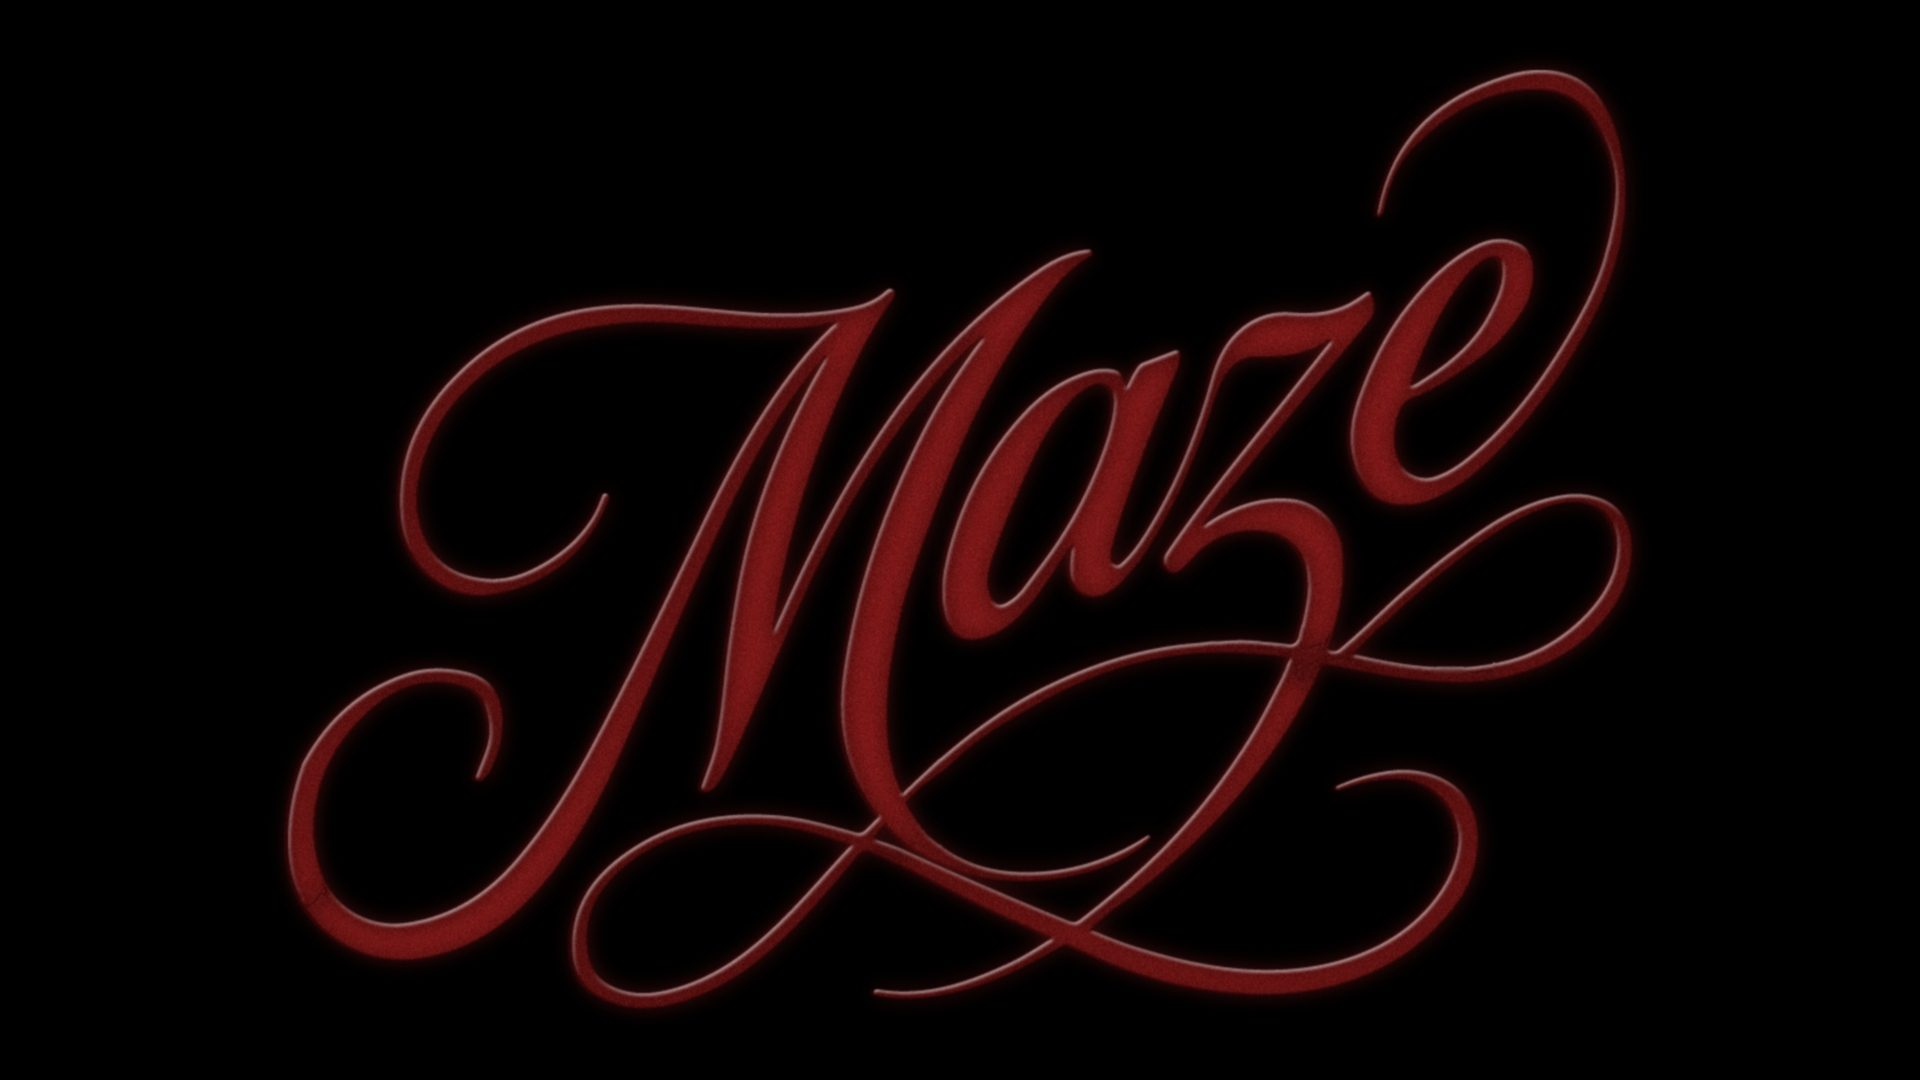
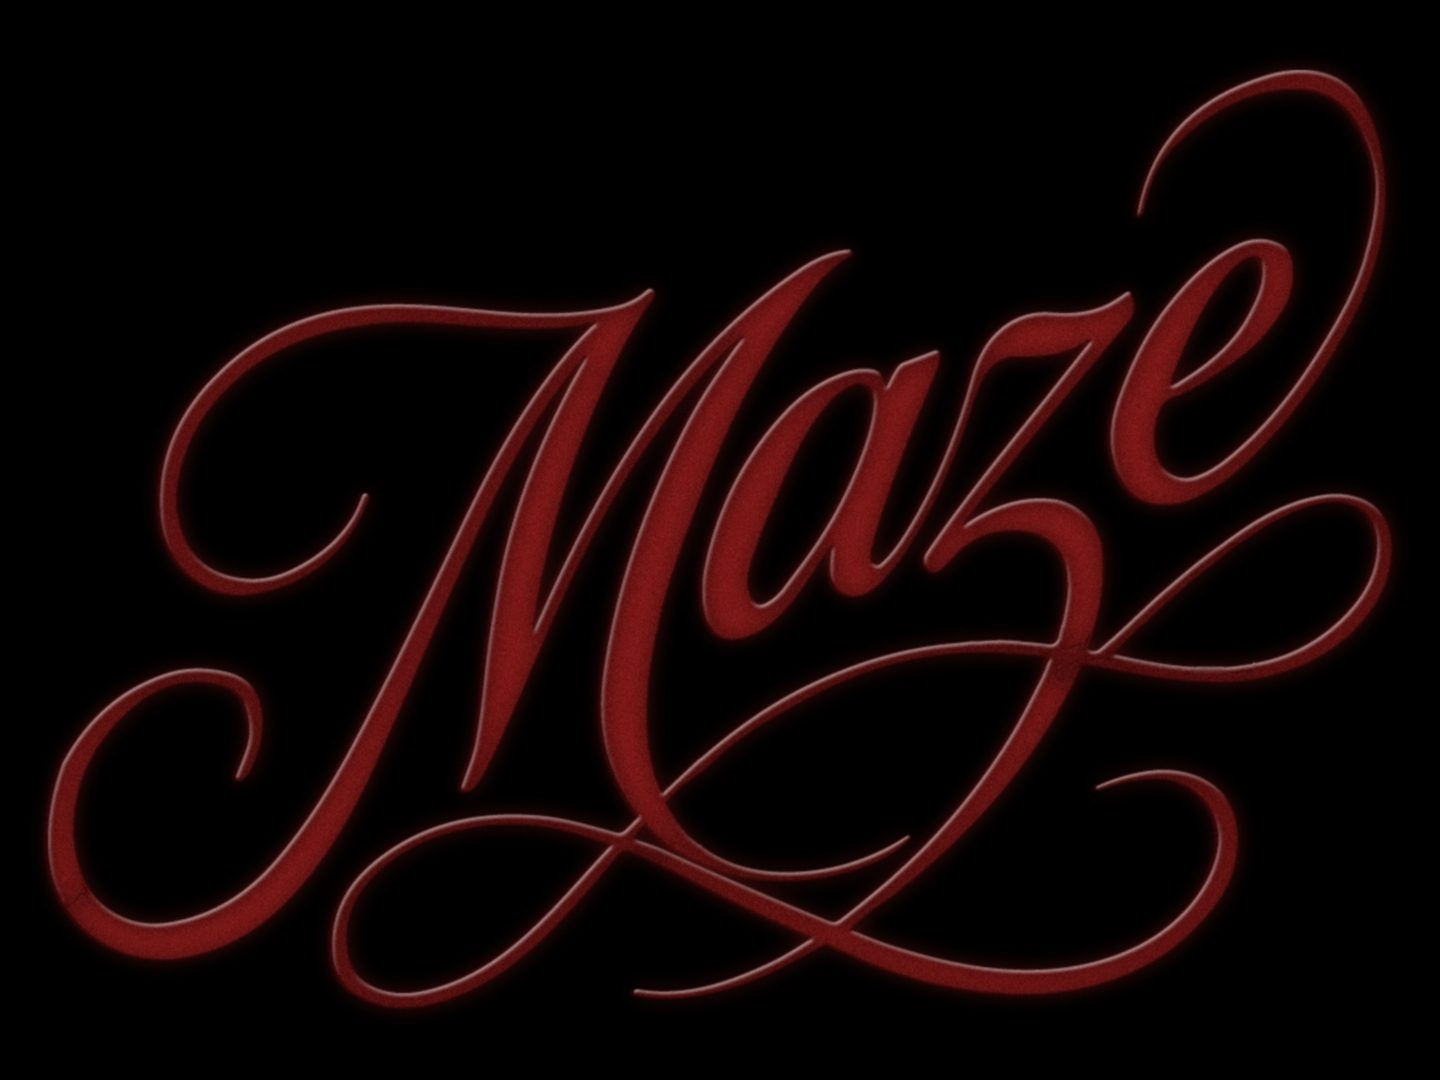
Default title cards to clean plate, align 4:3 pairs at top, crop Maze to 4:3, and standardize toggle buttons

Changed region(s): [[0.0312, 0.0611, 0.9688, 0.9472], [0.4375, 0.9167, 0.4688, 0.9472]]

diff --git a/design.html b/design.html
@@ -368,6 +368,7 @@
             display: grid;
             grid-template-columns: 1fr;
             gap: 2.5rem;
+            align-items: start;
         }
         @media (min-width: 900px) {
             .titlecards-grid {
@@ -396,6 +397,9 @@
         }
         .titlecard-media.aspect-4-3 {
             aspect-ratio: 4/3;
+        }
+        .titlecard-media.aspect-puppet {
+            aspect-ratio: 1648 / 1080;
         }
         .titlecard-media img, .titlecard-media video {
             width: 100%;
@@ -1152,11 +1156,11 @@
 
             <div class="titlecards-grid">
                 
-                <!-- 1. Donat Jackson - Need More Time -->
+                <!-- 1. Donat Jackson - Need More Time (4:3) -->
                 <div class="titlecard-item">
                     <div class="titlecard-media aspect-4-3" id="media-needmoretime">
                         <img id="img-needmoretime" 
-                             src="design-assets/title-cards/tc-needmoretime-design.jpg" 
+                             src="design-assets/title-cards/tc-needmoretime-plate.jpg" 
                              onerror="handleImgError(this)"
                              alt="Need More Time — Donat Jackson"
                              data-designed="design-assets/title-cards/tc-needmoretime-design.jpg"
@@ -1164,18 +1168,38 @@
                              onclick="openLightboxFromElement(this, 'Need More Time — Donat Jackson')">
                         <div class="titlecard-badge">Need More Time — Donat Jackson</div>
                         <div class="compare-toggle-bar">
-                            <button class="compare-btn active" onclick="switchCompare('needmoretime', 'designed', this)">Design</button>
-                            <button class="compare-btn" onclick="switchCompare('needmoretime', 'plate', this)">Clean Plate</button>
+                            <button class="compare-btn active" onclick="switchCompare('needmoretime', 'plate', this)">Clean Plate</button>
+                            <button class="compare-btn" onclick="switchCompare('needmoretime', 'designed', this)">Design</button>
                             <button class="compare-btn zoom-quick-btn" onclick="zoomCurrentTitleCard('needmoretime', 'Need More Time — Donat Jackson', event)" title="Zoom into High-Res Textures"><i class="fa-solid fa-magnifying-glass-plus"></i> Zoom 4K</button>
                         </div>
                     </div>
                 </div>
 
-                <!-- 2. Insyt - 360 -->
+                <!-- 2. Kai Banks - Maze (4:3) -->
+                <div class="titlecard-item">
+                    <div class="titlecard-media aspect-4-3" id="media-maze">
+                        <img id="img-maze" 
+                             src="design-assets/title-cards/tc-maze-plate.jpg" 
+                             onerror="handleImgError(this)"
+                             alt="Maze — Kai Banks"
+                             data-designed="design-assets/title-cards/tc-maze-scene.jpg"
+                             data-plate="design-assets/title-cards/tc-maze-plate.jpg"
+                             data-isolated="design-assets/title-cards/tc-maze-plate.jpg"
+                             onclick="openLightboxFromElement(this, 'Maze — Kai Banks')">
+                        <div class="titlecard-badge">Maze — Kai Banks</div>
+                        <div class="compare-toggle-bar">
+                            <button class="compare-btn active" onclick="switchCompare('maze', 'plate', this)">Clean Plate</button>
+                            <button class="compare-btn" onclick="switchCompare('maze', 'designed', this)">Design</button>
+                            <button class="compare-btn zoom-quick-btn" onclick="zoomCurrentTitleCard('maze', 'Maze — Kai Banks', event)" title="Zoom into High-Res Textures"><i class="fa-solid fa-magnifying-glass-plus"></i> Zoom 4K</button>
+                        </div>
+                    </div>
+                </div>
+
+                <!-- 3. Insyt - 360 (16:9) -->
                 <div class="titlecard-item">
                     <div class="titlecard-media" id="media-360">
                         <img id="img-360" 
-                             src="design-assets/title-cards/tc-360-design.jpg" 
+                             src="design-assets/title-cards/tc-360-plate.jpg" 
                              onerror="handleImgError(this)"
                              alt="360 — Insyt"
                              data-designed="design-assets/title-cards/tc-360-design.jpg"
@@ -1183,71 +1207,53 @@
                              onclick="openLightboxFromElement(this, '360 — Insyt')">
                         <div class="titlecard-badge">360 — Insyt</div>
                         <div class="compare-toggle-bar">
-                            <button class="compare-btn active" onclick="switchCompare('360', 'designed', this)">Design</button>
-                            <button class="compare-btn" onclick="switchCompare('360', 'plate', this)">Clean Plate</button>
+                            <button class="compare-btn active" onclick="switchCompare('360', 'plate', this)">Clean Plate</button>
+                            <button class="compare-btn" onclick="switchCompare('360', 'designed', this)">Design</button>
                             <button class="compare-btn zoom-quick-btn" onclick="zoomCurrentTitleCard('360', '360 — Insyt', event)" title="Zoom into High-Res Textures"><i class="fa-solid fa-magnifying-glass-plus"></i> Zoom 4K</button>
                         </div>
                     </div>
                 </div>
 
-                <!-- 3. Kai Banks - Maze -->
-                <div class="titlecard-item">
-                    <div class="titlecard-media" id="media-maze">
-                        <img id="img-maze" 
-                             src="design-assets/title-cards/tc-maze-scene.jpg" 
-                             onerror="handleImgError(this)"
-                             alt="Maze — Kai Banks"
-                             data-designed="design-assets/title-cards/tc-maze-scene.jpg"
-                             data-isolated="design-assets/title-cards/tc-maze-type.jpg"
-                             onclick="openLightboxFromElement(this, 'Maze — Kai Banks')">
-                        <div class="titlecard-badge">Maze — Kai Banks</div>
-                        <div class="compare-toggle-bar">
-                            <button class="compare-btn active" onclick="switchCompare('maze', 'designed', this)">Scene</button>
-                            <button class="compare-btn" onclick="switchCompare('maze', 'isolated', this)">Type Only</button>
-                            <button class="compare-btn zoom-quick-btn" onclick="zoomCurrentTitleCard('maze', 'Maze — Kai Banks', event)" title="Zoom into High-Res Textures"><i class="fa-solid fa-magnifying-glass-plus"></i> Zoom 4K</button>
-                        </div>
-                    </div>
-                </div>
-
-                <!-- 4. Insyt - HEAL -->
+                <!-- 4. Insyt - HEAL (16:9) -->
                 <div class="titlecard-item">
                     <div class="titlecard-media" id="media-heal">
-                        <video id="video-heal" autoplay loop muted playsinline poster="design-assets/title-cards/tc-heal-design.jpg" style="width:100%; height:100%; object-fit:cover;">
+                        <video id="video-heal" loop muted playsinline poster="design-assets/title-cards/tc-heal-design.jpg" style="width:100%; height:100%; object-fit:cover; display:none;">
                             <source src="design-assets/title-cards/tc-heal-video.mp4" type="video/mp4">
                             <source src="tc-heal-video.mp4" type="video/mp4">
                         </video>
                         <img id="img-heal" 
-                             src="design-assets/title-cards/tc-heal-design.jpg" 
+                             src="design-assets/title-cards/tc-heal-plate.jpg" 
                              onerror="handleImgError(this)"
                              alt="HEAL — Insyt"
-                             style="display:none;"
+                             style="display:block;"
                              data-designed="design-assets/title-cards/tc-heal-design.jpg"
                              data-plate="design-assets/title-cards/tc-heal-plate.jpg"
                              onclick="openLightboxFromElement(this, 'HEAL — Insyt')">
                         <div class="titlecard-badge">HEAL — Insyt</div>
                         <div class="compare-toggle-bar">
-                            <button class="compare-btn active" onclick="toggleHealMode('video', this)">Motion Loop</button>
-                            <button class="compare-btn" onclick="toggleHealMode('still', this)">Still Design</button>
-                            <button class="compare-btn" onclick="toggleHealMode('plate', this)">Clean Plate</button>
+                            <button class="compare-btn active" onclick="toggleHealMode('plate', this)">Clean Plate</button>
+                            <button class="compare-btn" onclick="toggleHealMode('still', this)">Design</button>
+                            <button class="compare-btn" onclick="toggleHealMode('video', this)">Motion Loop</button>
                             <button class="compare-btn zoom-quick-btn" onclick="zoomCurrentTitleCard('heal', 'HEAL — Insyt', event)" title="Zoom into High-Res Textures"><i class="fa-solid fa-magnifying-glass-plus"></i> Zoom 4K</button>
                         </div>
                     </div>
                 </div>
 
-                <!-- 5. Insyt - Puppet Strings -->
+                <!-- 5. Insyt - Puppet Strings (Super 35 / 1.53:1 Native) -->
                 <div class="titlecard-item">
-                    <div class="titlecard-media" id="media-puppet" style="background: #000;">
+                    <div class="titlecard-media aspect-puppet" id="media-puppet">
                         <img id="img-puppet" 
-                             src="design-assets/title-cards/tc-puppet-strings-scene.jpg" 
+                             src="design-assets/title-cards/tc-puppet-strings.jpg" 
                              onerror="handleImgError(this)"
                              alt="Puppet Strings — Insyt"
                              data-designed="design-assets/title-cards/tc-puppet-strings-scene.jpg"
+                             data-plate="design-assets/title-cards/tc-puppet-strings.jpg"
                              data-isolated="design-assets/title-cards/tc-puppet-strings.jpg"
                              onclick="openLightboxFromElement(this, 'Puppet Strings — Insyt')">
                         <div class="titlecard-badge">Puppet Strings — Insyt</div>
                         <div class="compare-toggle-bar">
-                            <button class="compare-btn active" onclick="switchCompare('puppet', 'designed', this)">Scene</button>
-                            <button class="compare-btn" onclick="switchCompare('puppet', 'isolated', this)">Calligraphy</button>
+                            <button class="compare-btn active" onclick="switchCompare('puppet', 'plate', this)">Clean Plate</button>
+                            <button class="compare-btn" onclick="switchCompare('puppet', 'designed', this)">Design</button>
                             <button class="compare-btn zoom-quick-btn" onclick="zoomCurrentTitleCard('puppet', 'Puppet Strings — Insyt', event)" title="Zoom into High-Res Textures"><i class="fa-solid fa-magnifying-glass-plus"></i> Zoom 4K</button>
                         </div>
                     </div>
@@ -1505,17 +1511,17 @@
             { src: 'design-assets/album-art/art-needmoretime.jpg', title: 'Donat Jackson — "needmoretime!"' },
             { src: 'design-assets/album-art/art-toll.jpg', title: 'Insyt. — "TOLL"' },
             { src: 'design-assets/album-art/art-sweartogod.jpg', title: '"swear to God!"' },
-            // Title Cards & Clean Plates
-            { src: 'design-assets/title-cards/tc-needmoretime-design.jpg', title: 'Need More Time — Donat Jackson' },
+            // Title Cards & Clean Plates (4:3 first, then widescreen)
             { src: 'design-assets/title-cards/tc-needmoretime-plate.jpg', title: 'Need More Time (Clean Plate) — Donat Jackson' },
-            { src: 'design-assets/title-cards/tc-360-design.jpg', title: '360 — Insyt' },
-            { src: 'design-assets/title-cards/tc-360-plate.jpg', title: '360 (Clean Plate) — Insyt' },
+            { src: 'design-assets/title-cards/tc-needmoretime-design.jpg', title: 'Need More Time — Donat Jackson' },
+            { src: 'design-assets/title-cards/tc-maze-plate.jpg', title: 'Maze (Clean Plate) — Kai Banks' },
             { src: 'design-assets/title-cards/tc-maze-scene.jpg', title: 'Maze — Kai Banks' },
-            { src: 'design-assets/title-cards/tc-maze-type.jpg', title: 'Maze (Type Only) — Kai Banks' },
-            { src: 'design-assets/title-cards/tc-heal-design.jpg', title: 'HEAL — Insyt' },
+            { src: 'design-assets/title-cards/tc-360-plate.jpg', title: '360 (Clean Plate) — Insyt' },
+            { src: 'design-assets/title-cards/tc-360-design.jpg', title: '360 — Insyt' },
             { src: 'design-assets/title-cards/tc-heal-plate.jpg', title: 'HEAL (Clean Plate) — Insyt' },
-            { src: 'design-assets/title-cards/tc-puppet-strings-scene.jpg', title: 'Puppet Strings — Insyt' },
-            { src: 'design-assets/title-cards/tc-puppet-strings.jpg', title: 'Puppet Strings (Calligraphy) — Insyt' }
+            { src: 'design-assets/title-cards/tc-heal-design.jpg', title: 'HEAL — Insyt' },
+            { src: 'design-assets/title-cards/tc-puppet-strings.jpg', title: 'Puppet Strings (Clean Plate) — Insyt' },
+            { src: 'design-assets/title-cards/tc-puppet-strings-scene.jpg', title: 'Puppet Strings — Insyt' }
         ];
 
         let currentIndex = 0;
@@ -1576,10 +1582,8 @@
             }
             const currentSrc = img.getAttribute('src') || img.src;
             let displayTitle = title;
-            if (currentSrc.includes('-plate')) {
+            if (currentSrc.includes('-plate') || currentSrc.includes('puppet-strings.jpg') || currentSrc.includes('maze-type')) {
                 displayTitle = title.replace(' — ', ' (Clean Plate) — ');
-            } else if (currentSrc.includes('-isolated') || currentSrc.includes('-type')) {
-                displayTitle = title.replace(' — ', ' (Type Only) — ');
             }
             openLightboxImage(currentSrc, displayTitle, true);
         }
